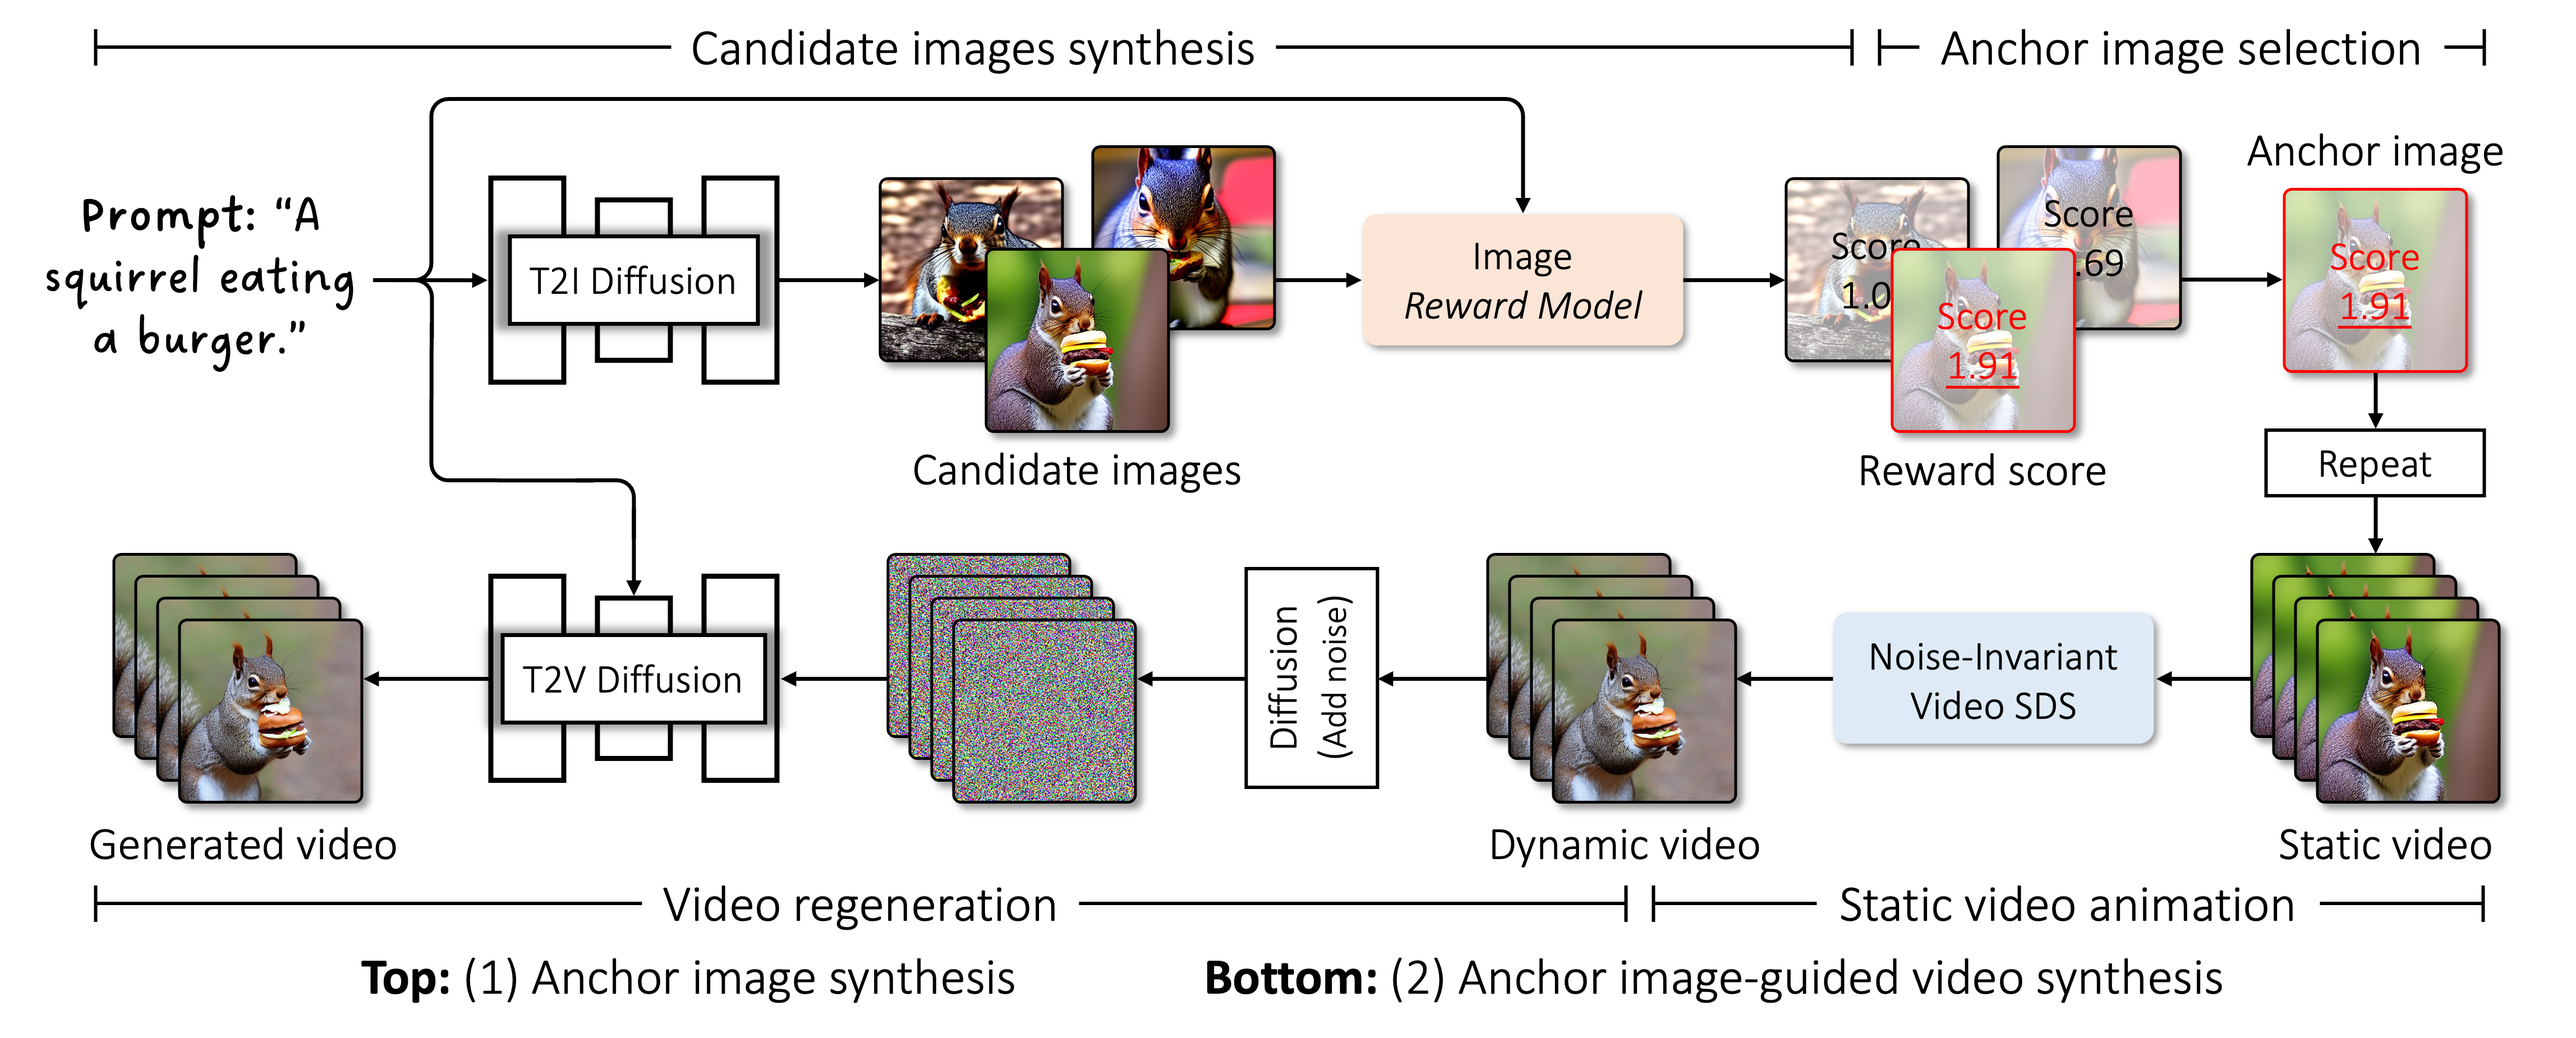
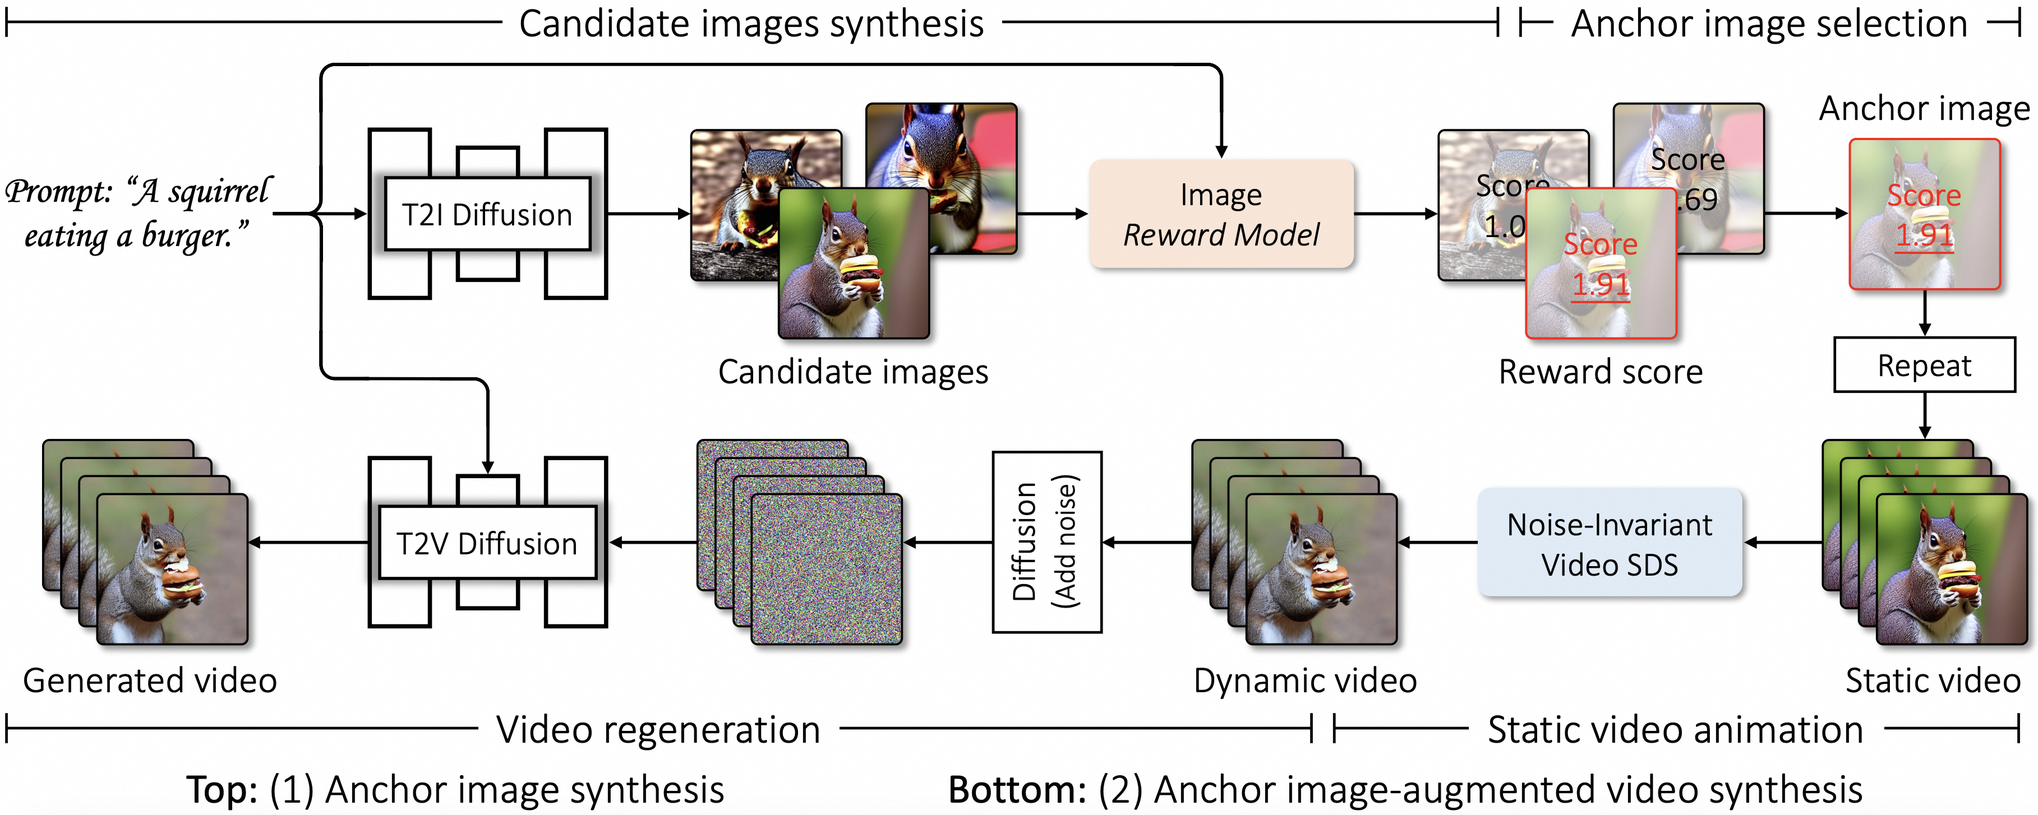
Update homepage

diff --git a/i4vgen/index.html b/i4vgen/index.html
@@ -112,7 +112,7 @@
 <div class="post">
 <header class="post-header">
 <h3 class="post-title text-center">
-<b>I4VGen:</b> Image as Stepping Stone for Text-to-Video Generation
+<b>I4VGen:</b> Image as Free Stepping Stone for Text-to-Video Generation
 </h3>
 <div class="row publications">
   <div class="col-md-12 text-center">
@@ -122,11 +122,12 @@
           <a href="https://xiefan-guo.github.io/">Xiefan Guo</a><sup>1</sup>&emsp;
           <a href="">Jinlin Liu</a><sup>1</sup>&emsp;
           <a href="">Miaomiao Cui</a><sup>1</sup>&emsp;
+          <a href="">Liefeng Bo</a><sup>1</sup>&emsp;
           <a href="https://irip.buaa.edu.cn/dihuang/index.html">Di Huang</a>
         </div>
         
         <div>
-          <sup>1</sup>Alibaba Group
+          <sup>1</sup>Institute for Intelligent Computing, Alibaba Group
         </div>
           
         <div class="links">
@@ -148,7 +149,8 @@
       <table border="0" cellspacing="0" cellpadding="0" align="center">
         <tr>
           <p align="center">
-            <b>Example results</b> (left: baseliens, right: ours). <b>I4VGen</b> is a <b>training-free</b> and <b>plug-and-play</b> video diffusion inference framework, which significantly enhances the generation of visually-realistic and semantically-faithful videos.
+            I4VGen is seamlessly integrated into existing pre-trained text-to-video diffusion models without additional training, significantly improving the temporal consistency, 
+            visual realism, and semantic fidelity of the synthesized videos. <br>Example results (left: baseliens, right: ours)
           </p>  
         </tr>  
         <tr>
@@ -260,16 +262,17 @@
 
 <h4>I4VGen</h4>
 <P>
-<b>I4VGen</b> is a <b>training-free</b> and <b>plug-and-play</b> video diffusion inference framework, 
-which decomposes text-to-video generation into two stages: 
-<u>anchor image synthesis</u> and <u>anchor image-guided video synthesis</u>. 
-It employs a <b>generation-selection strategy</b> for the anchor image, 
-synthesizing candidate images and selecting the most appropriate one based on a reward mechanism to ensure close alignment with the text prompt. 
-Subsequently, a novel <b>Noise-Invariant Video Score Distillation Sampling</b> is developed to animate the image to a video, 
-followed by a <b>video regeneration</b> process to refine that, thereby significantly improving the video quality.
+I4VGen is a novel video diffusion inference pipeline, 
+which enhances pre-trained text-to-video diffusion models by incorporating image reference information into the inference process. 
+Instead of the vanilla text-to-video inference pipeline, I4VGen consists of two stages: (1) anchor image synthesis and (2) anchor image-augmented text-to-video synthesis. 
 </P>
-<div class="text-center"><image width="100%" src="./assets/images/i4vgen.png" class="img-responsive" alt="overview" style="margin:auto"></image></div>
-
+<ul>
+  <li>Firstly, a simple yet effective generation-selection strategy is applied to synthesize candidate images and select the most suitable image using a reward-based mechanism, 
+    thereby obtaining high-quality anchor image.</li>
+  <li>Subsequently, an innovative noise-invariant video scoring distillation sampling (NIVSDS) is developed, 
+    which extracts motion prior from the text-to-video diffusion model to animate the anchor image into dynamic video, followed by a video regeneration process to refine the video.</li>
+</ul>
+<div class="text-center"><image width="100%" src="./assets/images/i4vgen.png" class="img-responsive" alt="overview" style="margin:auto"></image></div>    
 
 <br>
 <h4>Text-to-Video Generation (AnimateDiff)</h4>
@@ -526,8 +529,8 @@ followed by a <b>video regeneration</b> process to refine that, thereby signific
 <div>
 <font color="black" style="font-size: 14px;">
 <pre>@article{guo2024i4vgen,
-    title   = {I4VGen: Image as Stepping Stone for Text-to-Video Generation},
-    author  = {Guo, Xiefan and Liu, Jinlin and Cui, Miaomiao and Huang, Di},
+    title   = {I4VGen: Image as Free Stepping Stone for Text-to-Video Generation},
+    author  = {Guo, Xiefan and Liu, Jinlin and Cui, Miaomiao and Bo, Liefeng and Huang, Di},
     journal = {arXiv preprint arXiv:2406.02230},
     year    = {2024}
 }</pre>
@@ -540,7 +543,7 @@ followed by a <b>video regeneration</b> process to refine that, thereby signific
 <p style="font-size: 15px;">
 1. Guo <em>et al.</em>, "<a href="https://arxiv.org/abs/2307.04725">AnimateDiff: Animate Your Personalized Text-to-Image Diffusion Models without Specific Tuning</a>", <b>ICLR 2024</b><br>
 2. Wang <em>et al.</em>, "<a href="https://arxiv.org/abs/2309.15103">LaVie: High-Quality Video Generation with Cascaded Latent Diffusion Models</a>", <b>arXiv 2023</b><br>
-3. Guo <em>et al.</em>, "<a href="https://arxiv.org/abs/2311.16933">SparseCtrl: Adding Sparse Controls to Text-to-Video Diffusion Models</a>", <b>arXiv 2023</b>
+3. Guo <em>et al.</em>, "<a href="https://arxiv.org/abs/2311.16933">SparseCtrl: Adding Sparse Controls to Text-to-Video Diffusion Models</a>", <b>ECCV 2024</b>
 </p>
 
 

diff --git a/index.html b/index.html
@@ -177,8 +177,7 @@
 <div class="news">
 <h5><font style="color: #B71C1C;"><b><b>News</b></b></font></h5>
             
-<div class="table-responsive" style="max-height: 9vw">
-<!-- <div> -->
+<div class="table-responsive" style="max-height: 20vw">
   <ul class="new">
     <li>2024.06: We release the official PyTorch implementation of <a href="https://github.com/xiefan-guo/i4vgen">I4VGen</a>.</li>
     <li>2024.05: Invited talk at Alibaba Cloud on <a href="https://arxiv.org/abs/2404.04650">InitNO</a>, CVPR 2024.</li>
@@ -200,8 +199,8 @@
 <div>
   <ul class="pub">
     <li>
-      <b><b>I4VGen: Image as Stepping Stone for Text-to-Video Generation</b></b><br>
-      <b><b>Xiefan Guo</b></b>, Jinlin Liu, Miaomiao Cui, Di Huang<br>
+      <b><b>I4VGen: Image as Free Stepping Stone for Text-to-Video Generation</b></b><br>
+      <b><b>Xiefan Guo</b></b>, Jinlin Liu, Miaomiao Cui, Liefeng Bo, Di Huang<br>
       In: <em>arXiv:2406.02230</em>, Technical Report, 2024<br>
       [<a href="https://arxiv.org/abs/2406.02230">arXiv:2406.02230</a>]
       [<a href="https://github.com/xiefan-guo/i4vgen">Code</a>]
@@ -284,15 +283,15 @@
 </div> -->
   
 
-<div class="professional-activities">
+<!-- <div class="professional-activities">
 <h5><b><b>Professional activities</b></b></h5>
 <div>
   <ul>
-    <li>Conference Reviewer: CVPR, ICCV, ECCV, NeurIPS, ICLR, ACM MM, ICMR, BMVC, PRCV</li>
+    <li>Conference Reviewer: CVPR, ICCV, ECCV, NeurIPS, ICLR, AISTATS, ACM MM, ICMR, BMVC, PRCV</li>
   <li>Journal Reviewer: TPAMI, TVCG, TCSVT, TMM, CVIU, FCS</li>
   </ul>    
 </div>
-</div>
+</div> -->
 
 
 

diff --git a/publications/index.html b/publications/index.html
@@ -130,8 +130,8 @@
   <div>
     <ul class="pub">
       <li>
-        <b><b>I4VGen: Image as Stepping Stone for Text-to-Video Generation</b></b><br>
-        <b><b>Xiefan Guo</b></b>, Jinlin Liu, Miaomiao Cui, Di Huang<br>
+        <b><b>I4VGen: Image as Free Stepping Stone for Text-to-Video Generation</b></b><br>
+        <b><b>Xiefan Guo</b></b>, Jinlin Liu, Miaomiao Cui, Liefeng Bo, Di Huang<br>
         In: <em>arXiv:2406.02230</em>, Technical Report, 2024<br>
         [<a href="https://arxiv.org/abs/2406.02230">arXiv:2406.02230</a>]
         [<a href="https://github.com/xiefan-guo/i4vgen">Code</a>]

diff --git a/services/index.html b/services/index.html
@@ -135,6 +135,7 @@
             <li>European Conference on Computer Vision (ECCV)</li>
             <li>Conference on Neural Information Processing Systems (NeurIPS)</li>
             <li>International Conference on Learning Representations (ICLR)</li>
+            <li>International Conference on Artificial Intelligence and Statistics (AISTATS)</li>
             <li>ACM Multimedia Conference (MM)</li>
             <li>ACM International Conference on Multimedia Retrieval (ICMR)</li>
             <li>British Machine Vision Conference (BMVC)</li>
